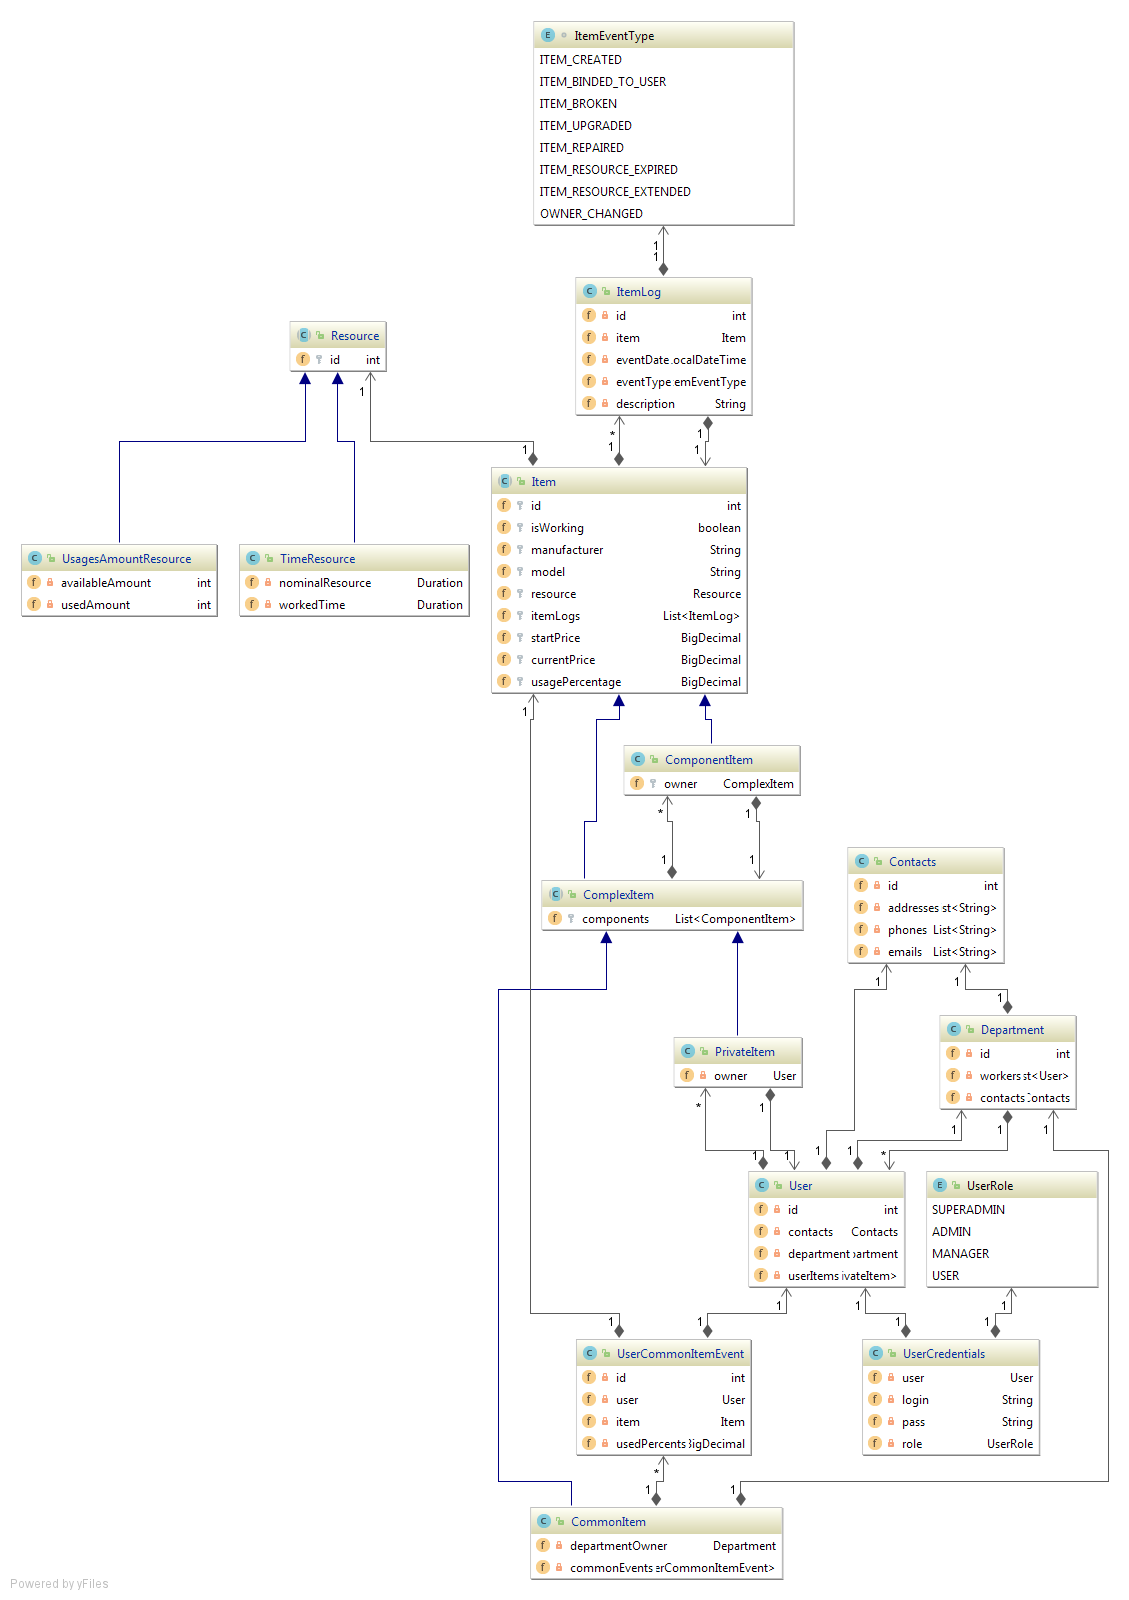
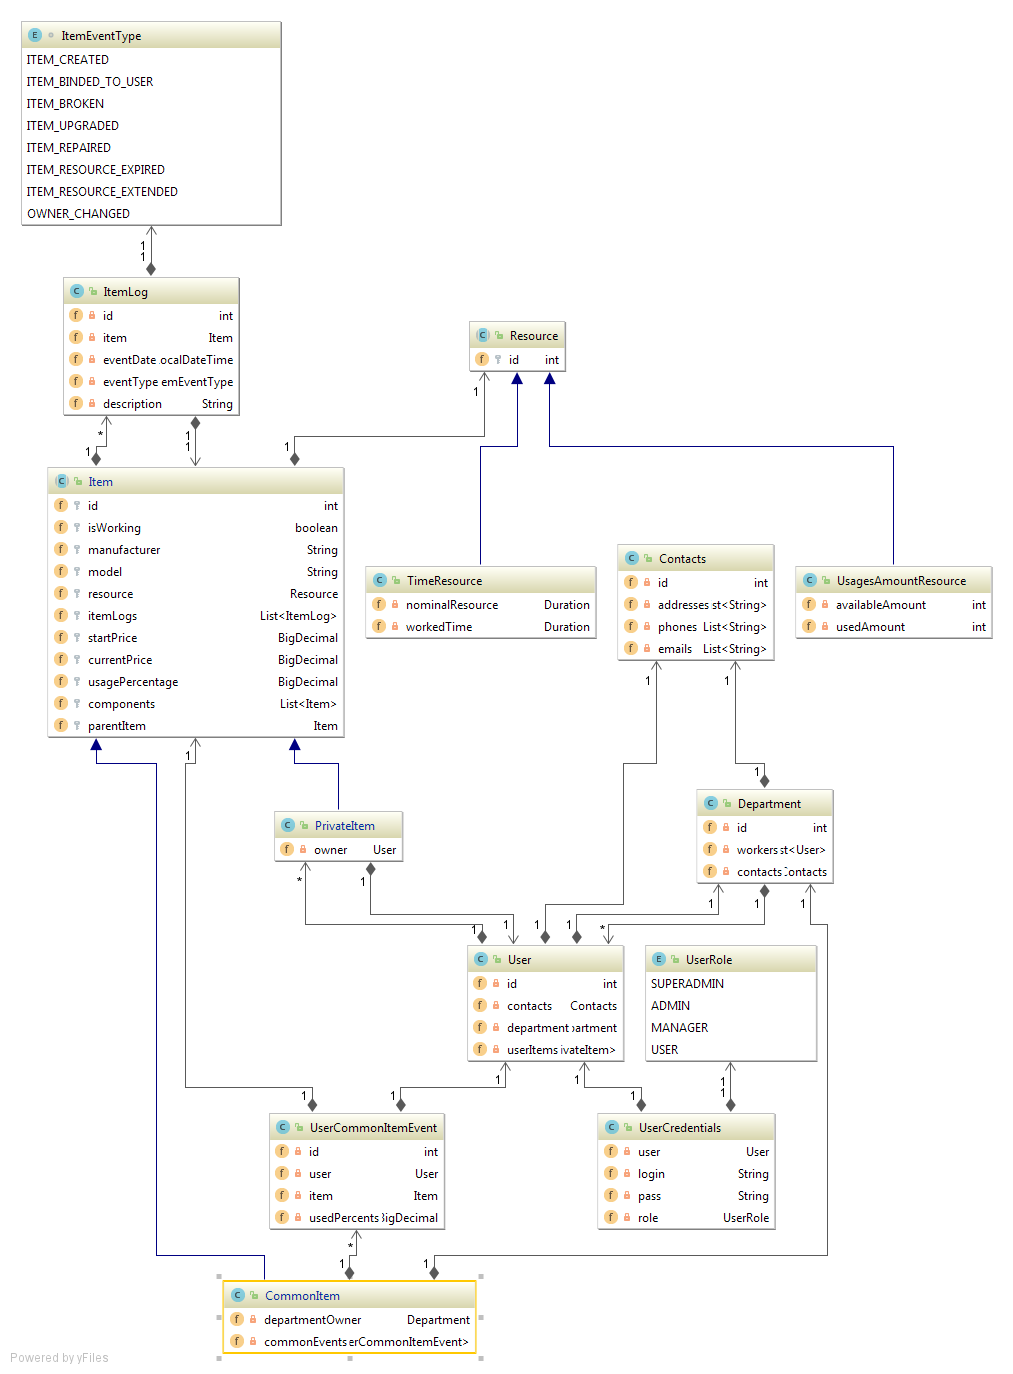
go home commit

diff --git a/src/main/java/model/item/CommonItem.java b/src/main/java/model/item/CommonItem.java
@@ -1,5 +1,8 @@
-package model;
+package model.item;
 
+
+import model.Department;
+import model.events.UserCommonItemEvent;
 
 import java.util.List;
 
@@ -7,7 +10,7 @@ import java.util.List;
  * item which is property of department and used by users of that department
  * each usage is written in {@link UserCommonItemEvent}
  */
-public class CommonItem extends ComplexItem {
+public class CommonItem extends Item {
 
     private Department departmentOwner;
     private List<UserCommonItemEvent> commonEvents;

diff --git a/src/main/java/model/item/Item.java b/src/main/java/model/item/Item.java
@@ -1,5 +1,8 @@
-package model;
+package model.item;
 
+
+import model.events.ItemLog;
+import model.item.resource.Resource;
 
 import java.math.BigDecimal;
 import java.util.List;
@@ -46,6 +49,12 @@ public abstract class Item {
      * describes total item wear
      */
     protected BigDecimal usagePercentage;
+
+    protected List<Item> components;
+
+    protected Item parentItem;
+
+
 
 
 }

diff --git a/src/main/java/model/item/PrivateItem.java b/src/main/java/model/item/PrivateItem.java
@@ -1,0 +1,15 @@
+package model.item;
+
+
+import model.item.Item;
+import model.user.User;
+
+/**
+ * item which is used only by one user which is owner
+ */
+public class PrivateItem extends Item {
+
+    private User owner;
+
+
+}

diff --git a/src/main/java/model/item/ItemEventType.java b/src/main/java/model/item/ItemEventType.java
@@ -1,4 +1,4 @@
-package model;
+package model.item;
 
 enum  ItemEventType {
     ITEM_CREATED, ITEM_BINDED_TO_USER, ITEM_BROKEN, ITEM_UPGRADED, ITEM_REPAIRED, ITEM_RESOURCE_EXPIRED, ITEM_RESOURCE_EXTENDED, OWNER_CHANGED

diff --git a/src/main/java/model/user/User.java b/src/main/java/model/user/User.java
@@ -1,5 +1,9 @@
-package model;
+package model.user;
 
+
+import model.Contacts;
+import model.Department;
+import model.item.PrivateItem;
 
 import java.util.List;
 

diff --git a/src/main/java/model/events/ItemLog.java b/src/main/java/model/events/ItemLog.java
@@ -1,5 +1,8 @@
-package model;
+package model.events;
 
+
+import model.item.Item;
+import model.item.ItemEventType;
 
 import java.time.LocalDateTime;
 

diff --git a/src/main/java/model/events/UserCommonItemEvent.java b/src/main/java/model/events/UserCommonItemEvent.java
@@ -1,5 +1,8 @@
-package model;
+package model.events;
 
+
+import model.item.Item;
+import model.user.User;
 
 import java.math.BigDecimal;
 

diff --git a/src/main/java/model/item/resource/Resource.java b/src/main/java/model/item/resource/Resource.java
@@ -1,4 +1,4 @@
-package model;
+package model.item.resource;
 
 
 import java.math.BigDecimal;

diff --git a/src/main/java/model/item/resource/TimeResource.java b/src/main/java/model/item/resource/TimeResource.java
@@ -1,4 +1,4 @@
-package model;
+package model.item.resource;
 
 
 import java.math.BigDecimal;

diff --git a/src/main/java/model/item/resource/UsagesAmountResource.java b/src/main/java/model/item/resource/UsagesAmountResource.java
@@ -1,4 +1,4 @@
-package model;
+package model.item.resource;
 
 
 import java.math.BigDecimal;

diff --git a/src/main/java/model/Department.java b/src/main/java/model/Department.java
@@ -1,6 +1,8 @@
 package model;
 
 
+import model.user.User;
+
 import java.util.List;
 
 /**

diff --git a/src/main/java/model/user/UserCredentials.java b/src/main/java/model/user/UserCredentials.java
@@ -1,4 +1,4 @@
-package model;
+package model.user;
 
 
 public class UserCredentials {
